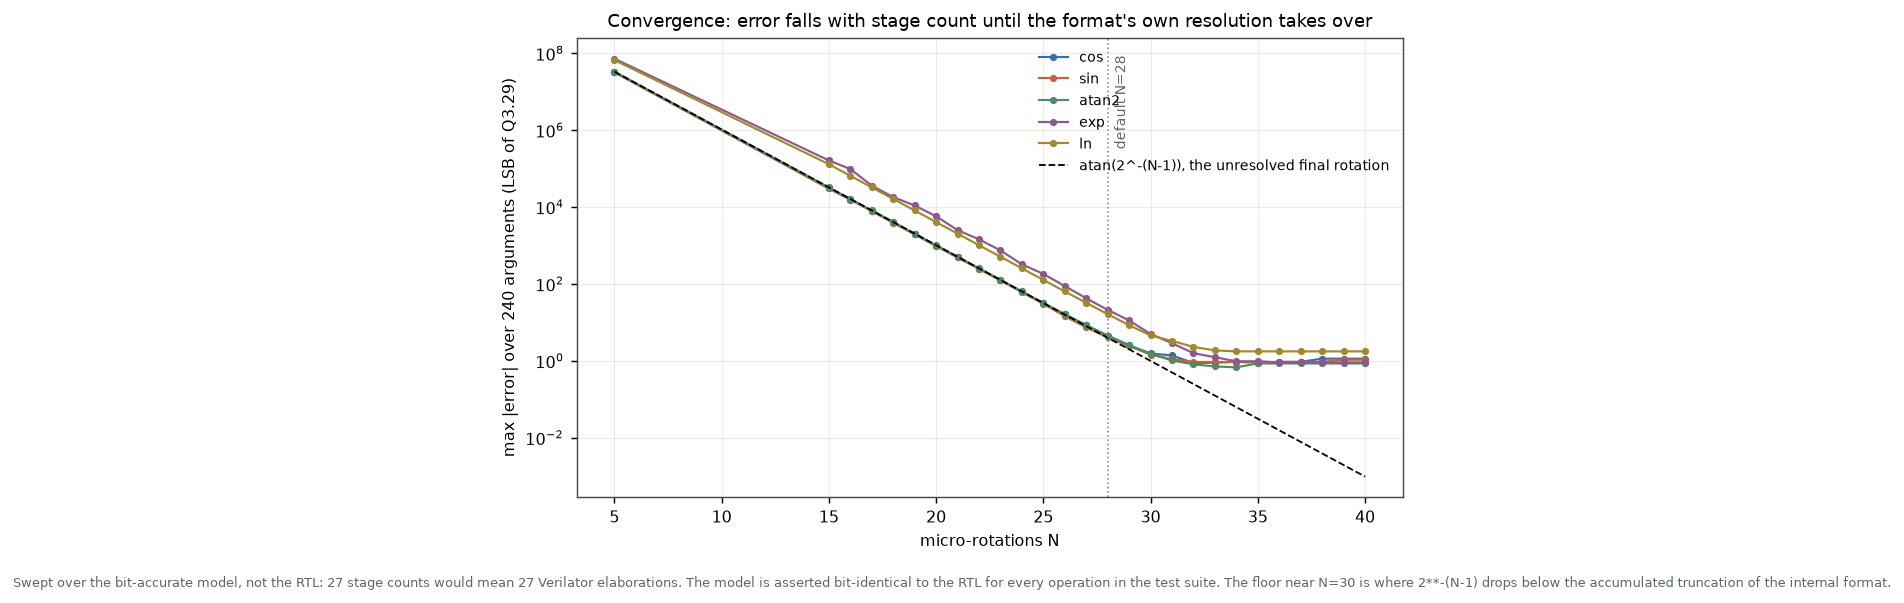
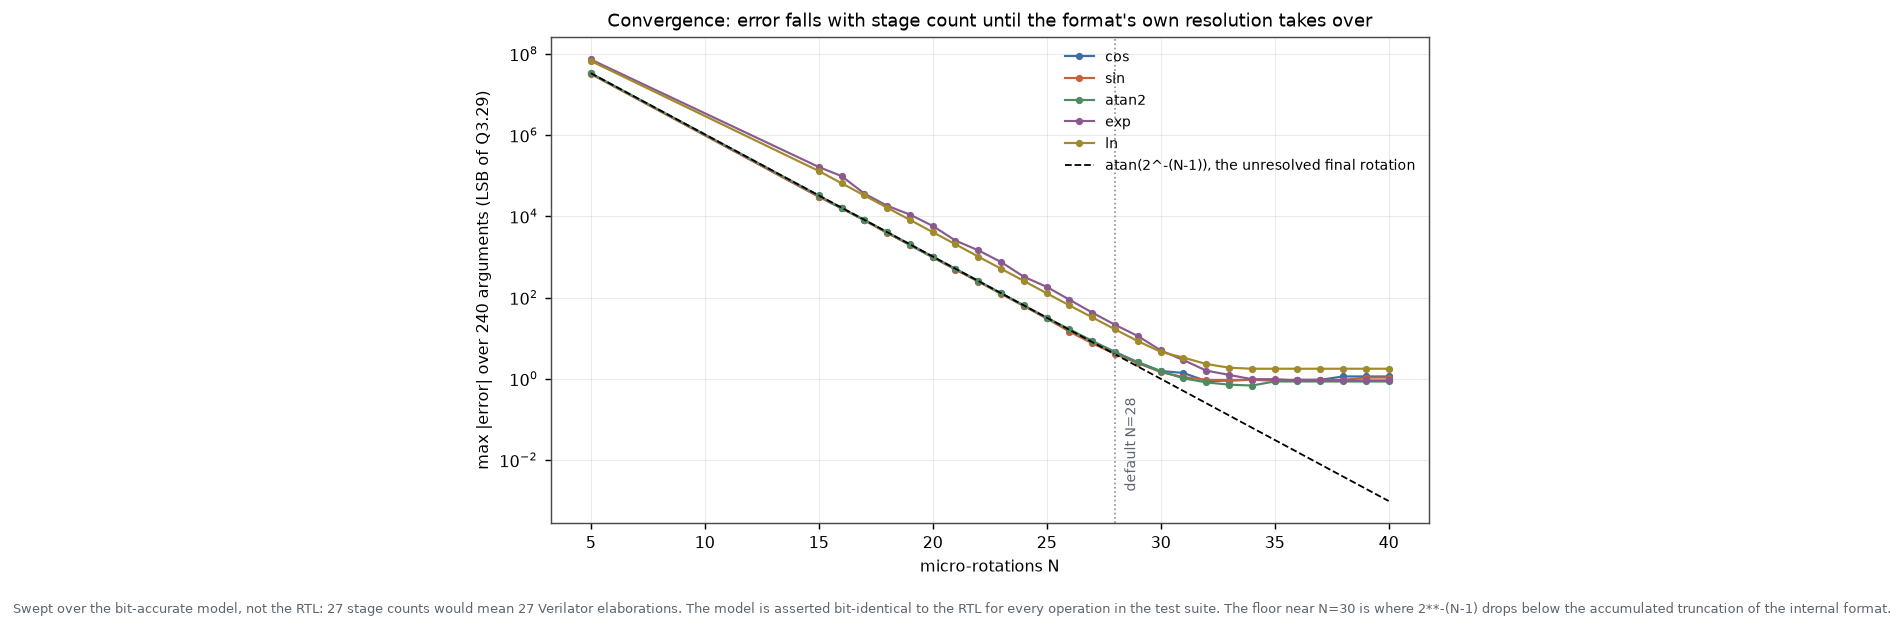
fix: report cycle counts as integers, and correct two figure captions
test_throughput measured time in ns and divided by the period as a float, so
latencies read as '30.0 cycles' in the log and in the throughput figure. They are
whole cycles; report them that way.

Two captions were wrong rather than merely terse:

- The width sweep claimed error in LSBs 'barely moves with width'. It does for sin,
  cos and atan2, but exp climbs from 1 to 12 LSB between W=12 and W=20, because
  NumStages is clamped at 15 below W=18 (the hyperbolic sequence needs 5, or 15 and
  up), so those points carry more stages than their format warrants. The caption now
  says so.
- The convergence figure's 'default N=28' marker sat on top of the legend.

Verified with a full 'make all' from a clean checkout: venv rebuilt, generated files
diffed clean, lint clean over 10 configurations plus the Croc wrapper, 71 simulation
tests passed, six synthesis configurations, the host driver test at 626 checks, the
RV32 image linked at 7428 bytes, and every figure regenerated and validated.

diff --git a/scripts/gen_plots.py b/scripts/gen_plots.py
@@ -213,15 +213,16 @@ def plot_error_vs_stages():
             curves[label].append(worst[label])
         reference_line.append(math.atan(2.0 ** -(ns - 1)) / lsb)
 
-    fig, ax = plt.subplots(figsize=(7.2, 4.4))
+    fig, ax = plt.subplots(figsize=(7.6, 4.6))
     for i, (_, _, label) in enumerate(funcs):
         ax.semilogy(stage_counts, curves[label], "o-", markersize=3.0,
                     linewidth=1.2, color=PALETTE[i], label=label)
     ax.semilogy(stage_counts, reference_line, "k--", linewidth=1.0,
                 label="atan(2^-(N-1)), the unresolved final rotation")
     ax.axvline(28, color="#8a8a8a", linestyle=":", linewidth=0.9)
-    ax.text(28.3, ax.get_ylim()[1] * 0.35, "default N=28", fontsize=7.5,
-            color="#5c646e", rotation=90, va="top")
+    # Below the curves rather than up in the legend's corner.
+    ax.text(28.4, ax.get_ylim()[0] * 6.0, "default N=28", fontsize=7.5,
+            color="#5c646e", rotation=90, va="bottom")
     ax.set_xlabel("micro-rotations N")
     ax.set_ylabel("max |error| over 240 arguments (LSB of Q3.29)")
     ax.set_title("Convergence: error falls with stage count until the format's "
@@ -300,14 +301,18 @@ def plot_error_vs_width():
                      color=PALETTE[i], label=label)
     axes[1].set_xlabel("word width W bits")
     axes[1].set_ylabel("max error in LSBs of that format")
-    axes[1].set_title("In LSBs it stays roughly flat, which is the useful result")
+    axes[1].set_title("In LSBs, flat once the stage count tracks the format")
     axes[1].legend(loc="upper left")
     fig.suptitle("Accuracy versus fixed-point width, three integer bits throughout, "
                  "N = max(15, W-3)", y=1.02)
-    note(fig, "Swept over the bit-accurate model. Error in LSBs barely moves with "
-              "width because both the micro-rotation residual and the truncation "
-              "walk scale with the format, so a wider word buys proportionally "
-              "more precision rather than relatively better behaviour.")
+    note(fig, "Swept over the bit-accurate model. Absolute error tracks one LSB "
+              "across the whole range, so a wider word buys precision "
+              "proportionally. In LSBs, sin, cos and atan2 sit near 2.5 once N "
+              "follows the format. exp climbs from 1 to 12 LSB over W = 12 to 20 "
+              "for a specific reason: N is clamped at 15 below W = 18 (the "
+              "hyperbolic sequence needs 5, or 15 and up), so those points carry "
+              "more stages than their format warrants, and exp amplifies the "
+              "residual by its own derivative on top.")
     save(fig, "error_vs_width.png")
 
 

diff --git a/tb/test_throughput.py b/tb/test_throughput.py
@@ -15,7 +15,7 @@ import pathlib
 import cocotb
 from cocotb.triggers import ClockCycles, RisingEdge
 
-from cordic_tb import (CordicDut, FUNC, get_field, make_field, stream_pop,
+from cordic_tb import (CLK_PERIOD_NS, CordicDut, FUNC, get_field, stream_pop,
                        stream_push, to_signed)
 
 RESULT_DIR = pathlib.Path(os.environ.get(
@@ -26,7 +26,9 @@ N_STREAM = int(os.environ.get("CORDIC_STREAM_OPS", "256"))
 
 
 def cycles():
-    return cocotb.utils.get_sim_time("ns") // 10
+    """Simulation time in whole clock cycles. int, not float, so the numbers that
+    end up in the figures and the README read as cycle counts."""
+    return int(cocotb.utils.get_sim_time("ns")) // CLK_PERIOD_NS
 
 
 def write_results(name, payload):

diff --git a/README.md b/README.md
@@ -22,8 +22,8 @@ and two interchangeable microarchitectures that produce bit-identical results.
 | Format | Q3.29 in 32 bits by default, parameterised; Q3.13 in 16 bits also verified |
 | Accuracy | 4.5 LSB worst case for sin and cos, 1.5 RMS, measured against double precision |
 | Interfaces | OBI v1.6 subordinate over a 4 KB window, plus a valid/ready streaming port |
-| Pipelined core | 1 result per cycle, 30 cycles latency, 55,096 cells |
-| Iterative core | 1 result per 29 cycles, 31 cycles latency, 11,101 cells |
+| Pipelined core | 1 result per cycle, 30 cycles end-to-end latency, 55,096 cells |
+| Iterative core | 1 result per 29 cycles, 31 cycles end-to-end latency, 11,101 cells |
 | Verification | 17,536 accuracy comparisons, 4,200 domain arguments, 28 OBI protocol tests, bit-identity between both cores over 900 operations |
 | Tooling | Verilator lint clean at `-Wall` over 10 configurations, Yosys over 6, RV32 driver image links |
 
